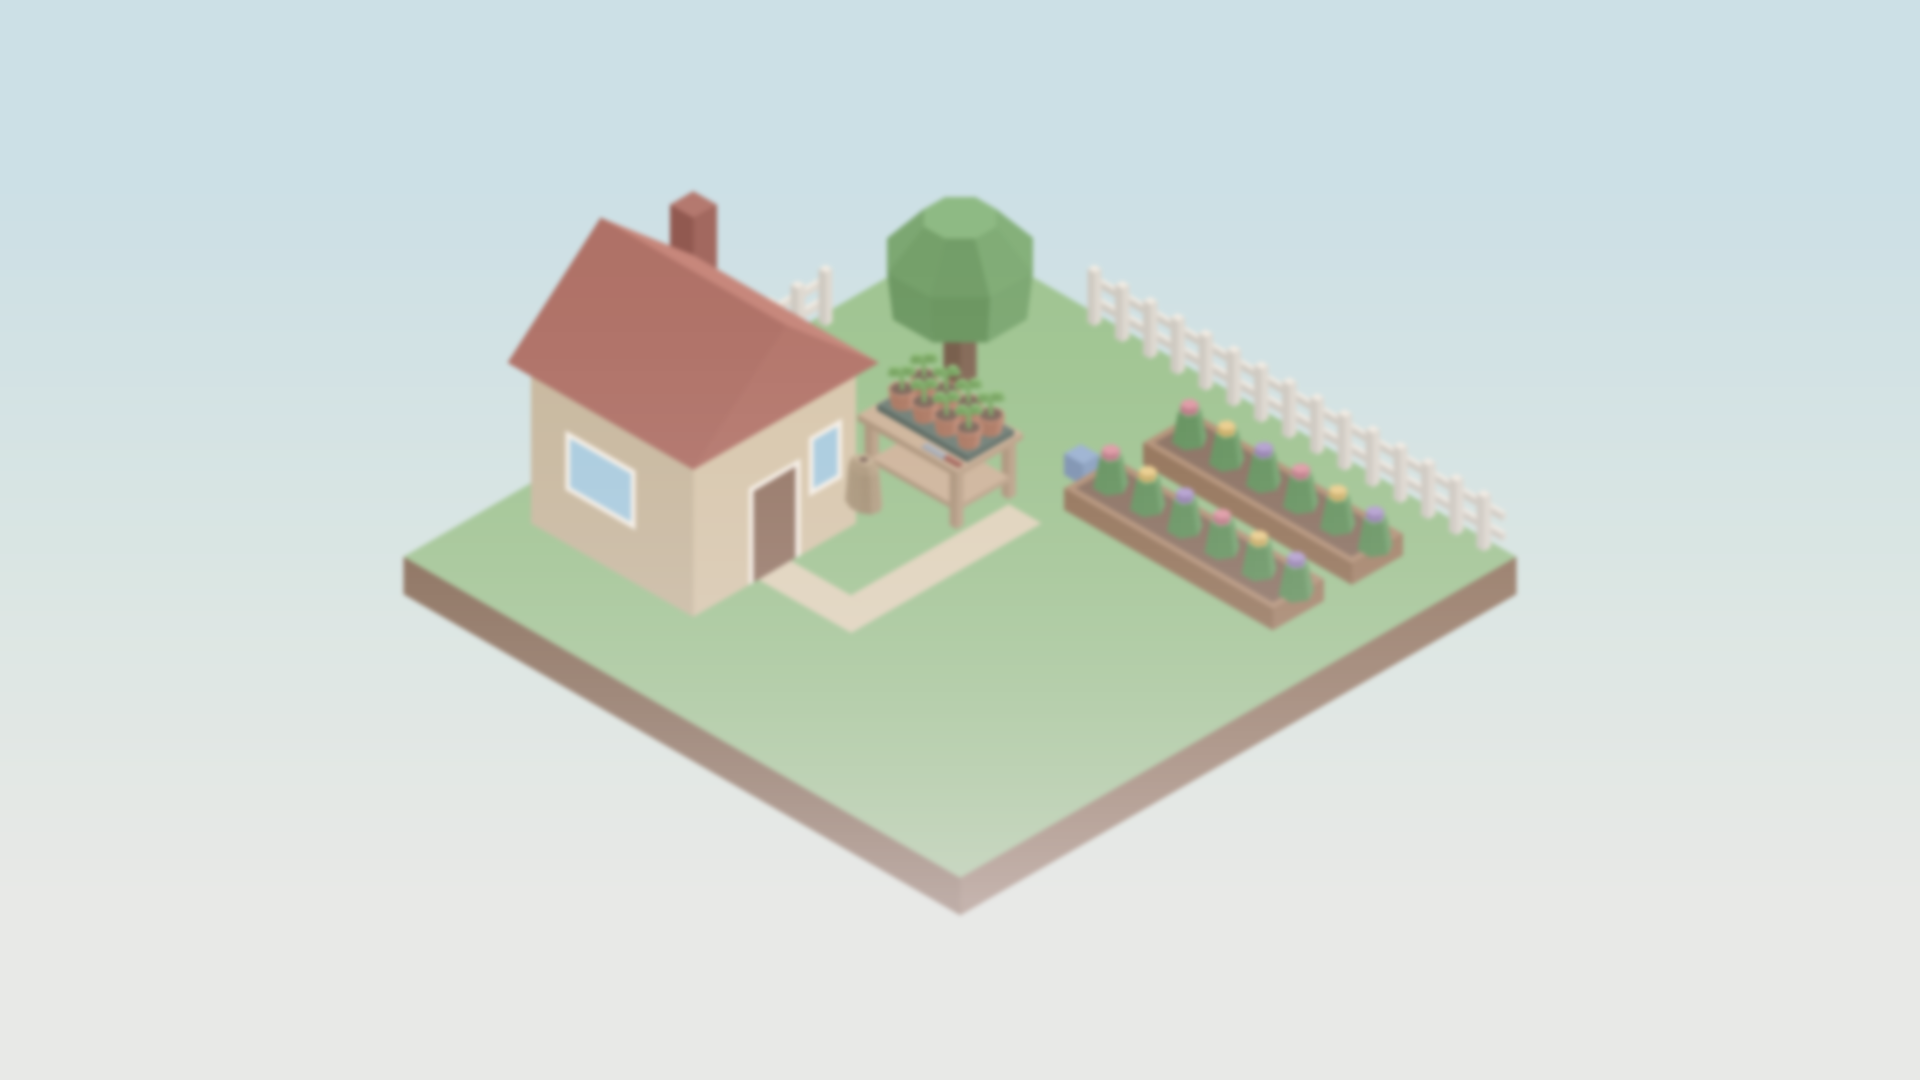
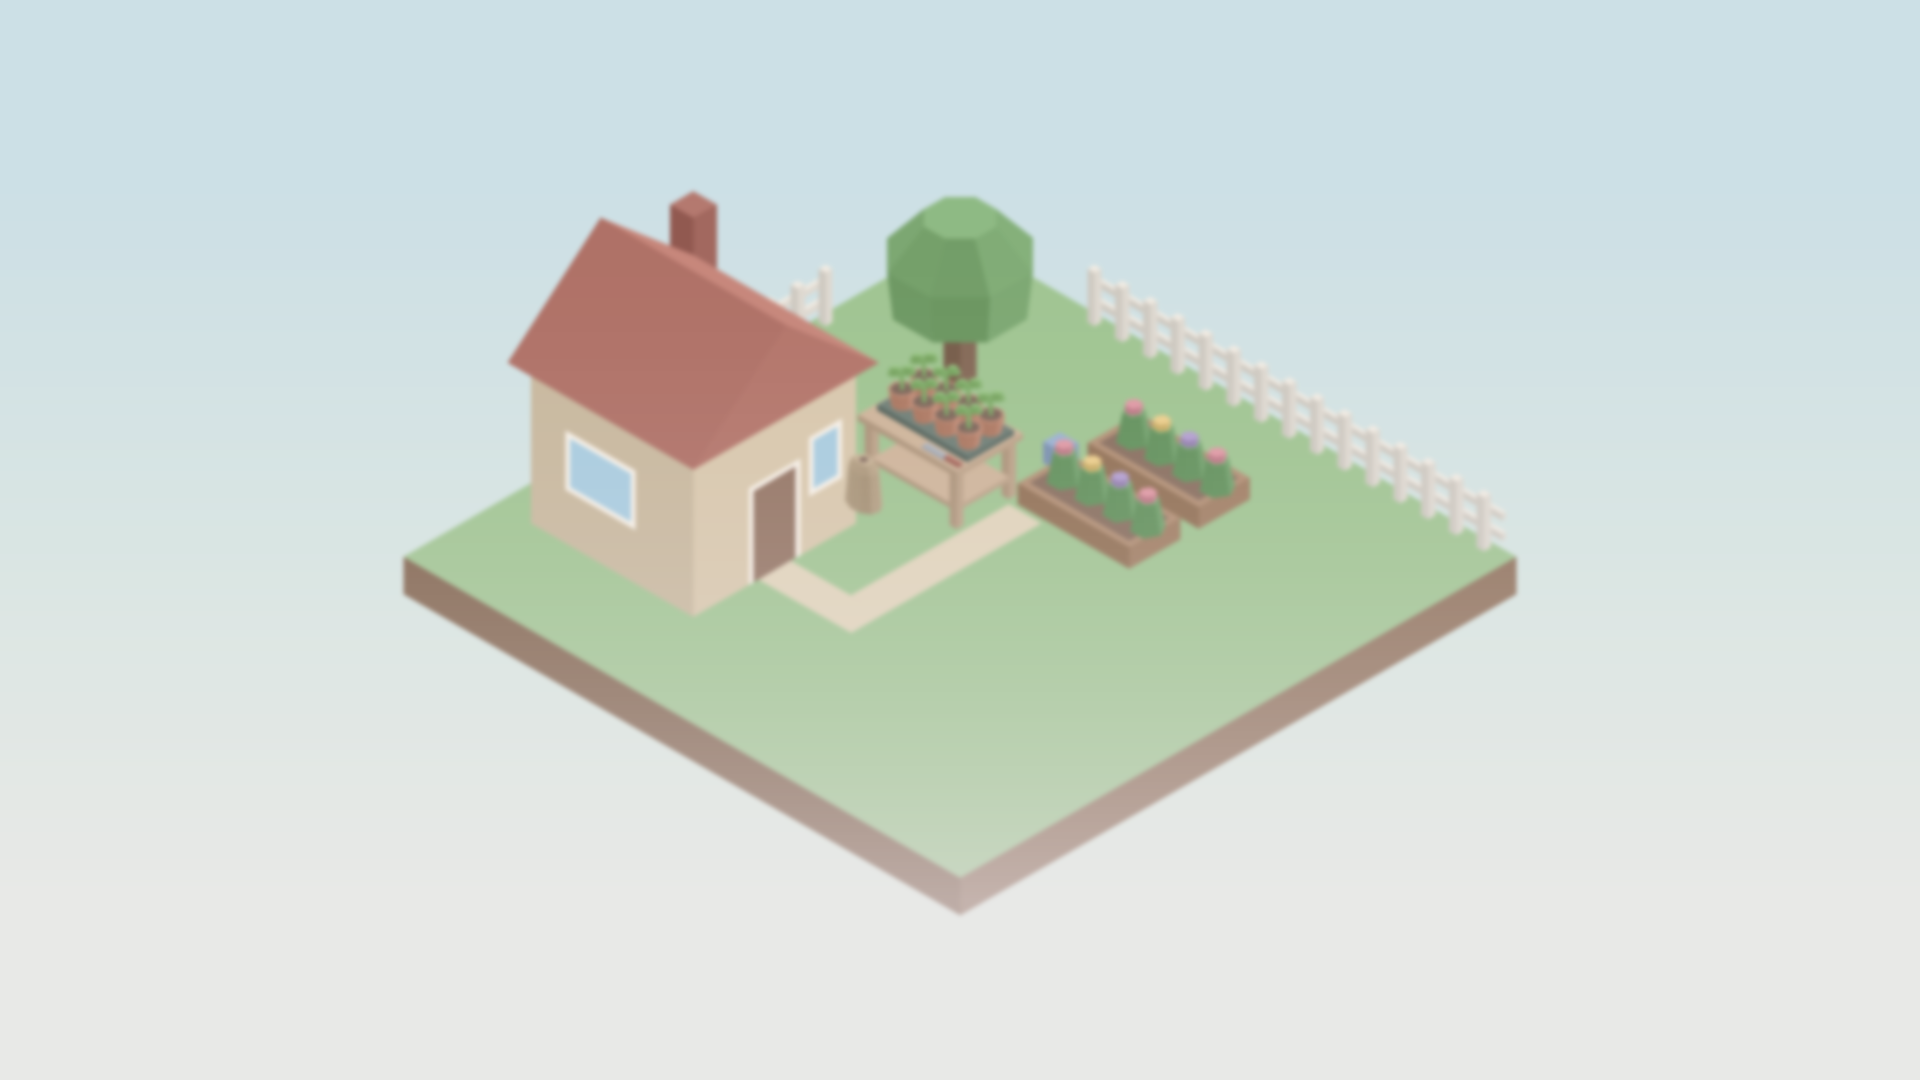
Shrink the cockpit ship and recompose four story scenes into the strip
The cockpit close-up draws the ship at 0.85 about the canopy focus, so the dome
spans rows 175 to 298. Grandma's beds sit beside the house, the play structure
beside the school's door, a shorter notice board lower by the near door, and
shorter coats and the lead nearer the corner by the front door, each subject
within 110 rows ending by row 290. The subject bands follow.

Changed region(s): [[0.5312, 0.3667, 0.75, 0.5806]]

diff --git a/art/tools/storybook.ts b/art/tools/storybook.ts
@@ -251,8 +251,8 @@ function pottingTable(s: Scene, P: Palette, state: TrayState) {
   }
 }
 
-// The house sits at the left corner and the beds at the right, along one screen-horizontal
-// band, so both stay above the story panel.
+// The house sits at the left corner and the beds beside it toward the right, so the beds' rows
+// (the scene's subject) fit the strip above the story panel.
 function garden(P: Palette, tray?: TrayState): Scene {
   const n = 24;
   const s = island();
@@ -283,12 +283,12 @@ function garden(P: Palette, tray?: TrayState): Scene {
   }
   s.solid(box(0.25, 0.42, 6, 12.6, 0.7, 0.95), P.fence!, 2, 6.2);
   s.solid(box(0.25, 0.42, 6, 12.6, 1.45, 1.7), P.fence!, 2, 6.3);
-  for (const y0 of [2.4, 5.8]) {
-    s.solid(box(12.5, 21.5, y0, y0 + 2.2, 0, 0.8), P.bed!, 2, 12.5 + y0, [
-      [onZ(0.801, 12.75, 21.25, y0 + 0.25, y0 + 1.95), P.soil!],
+  for (const y0 of [3.6, 6.6]) {
+    s.solid(box(11.3, 16.1, y0, y0 + 2.2, 0, 0.8), P.bed!, 2, 11.3 + y0, [
+      [onZ(0.801, 11.55, 15.85, y0 + 0.25, y0 + 1.95), P.soil!],
     ]);
-    for (let i = 0; i < 6; i++) {
-      const x = 13.4 + i * 1.6;
+    for (let i = 0; i < 4; i++) {
+      const x = 12.2 + i * 1.2;
       const key = x + y0 + 1.5;
       s.solid(frustum(x, y0 + 1.1, 0.55, 0.35, 6, 0.8, 1.9), P.plant!, 2, key);
       s.solid(prism(x, y0 + 1.1, 0.28, 6, 1.9, 2.15), P[`bloom${(i % 3) + 1}`]!, 2, key + 0.1);
@@ -297,7 +297,7 @@ function garden(P: Palette, tray?: TrayState): Scene {
   s.solid(box(5.0, 5.7, 5.0, 5.7, 0, 3.2), P.trunk!, 2, 8);
   s.solid(frustum(5.35, 5.35, 2.2, 2.4, 8, 2.8, 4.6, 0.39), P.crown!, 2, 8.2);
   s.solid(frustum(5.35, 5.35, 2.4, 1.2, 8, 4.6, 6.0, 0.39), P.crown!, 2, 8.3);
-  s.solid(box(11.2, 12.0, 6.0, 6.7, 0, 0.8), P.can!, 2, 18);
+  s.solid(box(10.3, 11.1, 6.0, 6.7, 0, 0.8), P.can!, 2, 17);
   if (tray) pottingTable(s, P, tray);
   return s;
 }
@@ -920,16 +920,17 @@ function hallway(P: Palette): Scene {
   ]);
   const left: Decal[] = [
     [onX(0.001, 0, ny, 0, 1.6), P.wains!],
-    [onX(0.002, 1.2, 6.6, 2.4, 5.8), P.board!],
-    [onX(0.003, 1.4, 6.4, 2.6, 5.6), P.cork!],
+    // The notice board beside the near door, its rows 184..290 above the story panel.
+    [onX(0.002, 4.4, 8.0, 3.2, 5.8), P.board!],
+    [onX(0.003, 4.6, 7.8, 3.4, 5.6), P.cork!],
   ];
   for (const [y0, z0, c] of [
-    [1.8, 4.0, "paper1"],
-    [2.9, 3.0, "paper3"],
-    [4.0, 4.2, "paper2"],
-    [5.1, 3.2, "paper4"],
+    [4.8, 4.4, "paper1"],
+    [5.55, 3.7, "paper3"],
+    [6.3, 4.5, "paper2"],
+    [7.05, 3.8, "paper4"],
   ] as const) {
-    left.push([onX(0.004, y0, y0 + 0.9, z0, z0 + 1.2), P[c]!]);
+    left.push([onX(0.004, y0, y0 + 0.6, z0, z0 + 1.0), P[c]!]);
   }
   left.push(
     [onX(0.002, 8.4, 11.6, 0, 5.4), P.frame!],
@@ -998,27 +999,32 @@ function schoolyard(P: Palette): Scene {
   for (let z = 1; z < 5; z++) deco.push([onY(23.001, 0.5, 6.5, z - 0.04, z), P.mortar!]);
   s.solid(box(0.5, 6.5, 6.0, 23.0, 0, 4.8), P.brick!, 2, 12, deco);
   s.solid(box(0.3, 6.7, 5.8, 23.2, 4.8, 5.2), P.roof!, 2, 12.1);
-  // Play structure: posts, deck, roof, slide and climbing bars.
+  // Play structure beside the school's door: posts, deck, roof, climbing bars, and the slide
+  // toward the back of the lot, so the whole structure fits rows 170..276.
+  const [px0, py0] = [8.5, 9.0];
   for (const [cx, cy] of [
-    [13, 5],
-    [15.8, 5],
-    [13, 7.8],
-    [15.8, 7.8],
+    [px0, py0],
+    [px0 + 2.8, py0],
+    [px0, py0 + 2.8],
+    [px0 + 2.8, py0 + 2.8],
   ] as const) {
-    s.solid(box(cx, cx + 0.25, cy, cy + 0.25, 0, 4.8), P.post!, 2, cx + cy);
+    s.solid(box(cx, cx + 0.25, cy, cy + 0.25, 0, 4.4), P.post!, 2, cx + cy);
   }
-  s.solid(box(12.9, 16.2, 4.9, 8.2, 2.6, 2.95), P.deck!, 2, 21.0);
-  s.solid(gable(12.7, 16.4, 4.7, 8.4, 4.8, 6.0), P.bars!, 2, 21.5);
+  s.solid(box(px0 - 0.1, px0 + 3.2, py0 - 0.1, py0 + 3.2, 2.6, 2.95), P.deck!, 2, px0 + py0 + 3);
+  s.solid(gable(px0 - 0.3, px0 + 3.4, py0 - 0.3, py0 + 3.4, 4.4, 5.6), P.bars!, 2, px0 + py0 + 3.5);
   const ramp: Face = [
-    [16.2, 5.8, 2.95],
-    [20.2, 5.8, 0.2],
-    [20.2, 7.2, 0.2],
-    [16.2, 7.2, 2.95],
+    [px0 + 0.8, py0 - 0.1, 2.95],
+    [px0 + 0.8, py0 - 4.1, 0.2],
+    [px0 + 2.2, py0 - 4.1, 0.2],
+    [px0 + 2.2, py0 - 0.1, 2.95],
   ];
-  s.solid(slab(ramp, 0.25), P.slide!, 2, 24);
-  for (const z of [0.8, 1.6, 2.4])
-    s.solid(box(13.0, 16.0, 8.2, 8.35, z, z + 0.14), P.bars!, 2, 21.2);
-  for (const cx of [13.0, 16.0]) s.solid(box(cx, cx + 0.14, 8.2, 8.35, 0, 2.6), P.bars!, 2, 21.3);
+  s.solid(slab(ramp, 0.25), P.slide!, 2, px0 + py0 - 3);
+  for (const z of [0.8, 1.6, 2.4]) {
+    s.solid(box(px0, px0 + 3.0, py0 + 3.2, py0 + 3.35, z, z + 0.14), P.bars!, 2, px0 + py0 + 3.2);
+  }
+  for (const cx of [px0, px0 + 3.0]) {
+    s.solid(box(cx, cx + 0.14, py0 + 3.2, py0 + 3.35, 0, 2.6), P.bars!, 2, px0 + py0 + 3.3);
+  }
   for (let x = 8; x < n; x += 2) s.solid(box(x, x + 0.22, 0.2, 0.42, 0, 2.2), P.fence!, 2, x + 0.5);
   s.solid(box(8, n, 0.27, 0.35, 2.05, 2.2), P.fence!, 2, 8.6);
   tree(s, P, 21.0, 2.6);
@@ -1066,7 +1072,7 @@ function frontDoor(P: Palette): Scene {
   s.solid([onZ(0, 0, nx, 0, ny)], P.floor!, 0, 1, deco);
   s.solid(box(-0.6, nx, -0.6, 0, 0, wall), P.wall!, 1, 0, [
     [onY(0.001, 0, nx, 0, 2.0), P.wains!],
-    [onY(0.002, 0.8, 6.4, 4.7, 4.95), P.rail!],
+    [onY(0.002, 0.6, 5.2, 4.7, 4.95), P.rail!],
     [onY(0.002, 8.0, 11.4, 3.6, 5.8), P.trim!],
     [onY(0.003, 8.2, 11.2, 3.8, 5.6), P.pic!],
     [onY(0.004, 8.2, 11.2, 3.8, 4.6), P.hill!],
@@ -1080,11 +1086,11 @@ function frontDoor(P: Palette): Scene {
     [onX(0.004, 5.4, 8.0, 2.2, 3.6), P.panel!],
     [onX(0.005, 8.0, 8.25, 2.6, 2.85), P.knob!],
   ]);
-  // Coats and the lead on the hooks.
-  s.solid(box(1.2, 2.6, 0, 0.5, 2.2, 4.8), P.coat1!, 2, 1.5);
-  s.solid(box(3.0, 4.3, 0, 0.5, 2.6, 4.8), P.coat2!, 2, 3.0);
-  s.solid(box(5.2, 5.35, 0, 0.15, 3.1, 4.8), P.leash!, 2, 5.0);
-  s.solid(box(4.95, 5.6, 0, 0.15, 2.6, 3.1), P.leash!, 2, 5.1);
+  // Coats and the lead on the hooks, near the corner by the door, inside rows 175..280.
+  s.solid(box(1.0, 2.2, 0, 0.5, 2.8, 4.8), P.coat1!, 2, 1.5);
+  s.solid(box(2.6, 3.8, 0, 0.5, 3.0, 4.8), P.coat2!, 2, 3.0);
+  s.solid(box(4.4, 4.55, 0, 0.15, 3.4, 4.8), P.leash!, 2, 5.0);
+  s.solid(box(4.15, 4.8, 0, 0.15, 3.0, 3.4), P.leash!, 2, 5.1);
   // Shoe rack, plant and the dog's bowl.
   s.solid(box(1.0, 5.0, 0, 1.4, 0, 1.0), P.rack!, 2, 1.0);
   ["shoe1", "shoe2", "shoe1"].forEach((c, i) => {
@@ -1455,16 +1461,16 @@ export const BACKGROUNDS: readonly Background[] = [
     build: (P: Palette) => room(P, { glow: glowAmount(glow) }),
     subject: DESK_ROCK,
   })),
-  // The raised beds in bloom beside the house's door.
-  { id: "story-grandma-garden", palette: GARDEN, build: garden, subject: band(195, 315) },
+  // The raised beds in bloom beside the house.
+  { id: "story-grandma-garden", palette: GARDEN, build: garden, subject: band(199, 285) },
   // The sprouting bed, the two empty beds and the shed.
   { id: "story-community-garden", palette: LOT, build: lot, subject: band(180, 290) },
-  // The school's door and the play structure.
-  { id: "story-schoolyard", palette: YARD, build: schoolyard, subject: band(160, 300) },
-  // The notice board and the two doors.
-  { id: "story-school-hallway", palette: HALL, build: hallway, subject: band(145, 290) },
-  // The coats and Penny's lead on their hooks, over the shoe rack.
-  { id: "story-front-door", palette: DOOR, build: frontDoor, subject: band(160, 295) },
+  // The play structure beside the school's door.
+  { id: "story-schoolyard", palette: YARD, build: schoolyard, subject: band(168, 278) },
+  // The notice board beside the near door.
+  { id: "story-school-hallway", palette: HALL, build: hallway, subject: band(184, 290) },
+  // The coats and Penny's lead on their hooks by the door.
+  { id: "story-front-door", palette: DOOR, build: frontDoor, subject: band(175, 280) },
   // Needle: the recorder and the rock on Ada's desk.
   {
     id: "story-ada-room-recorder",
@@ -1491,13 +1497,13 @@ export const BACKGROUNDS: readonly Background[] = [
     id: "story-grandma-garden-spilled",
     palette: GARDEN,
     build: (P) => garden(P, "spilled"),
-    subject: band(195, 315),
+    subject: band(176, 285),
   },
   {
     id: "story-grandma-garden-replanted",
     palette: GARDEN,
     build: (P) => garden(P, "replanted"),
-    subject: band(195, 315),
+    subject: band(176, 285),
   },
   // The rock's glow on the desk.
   {

diff --git a/art/tools/cockpit.ts b/art/tools/cockpit.ts
@@ -33,8 +33,11 @@ export const CANVAS = { width: 960, height: 540, density: 2 } as const;
 const SS = 3;
 // Ship heading 24 of 32 (up-right).
 const YAW = 24;
+// The ship's size in the close-up, about the canopy's focus point: the dome spans canvas rows 175
+// to 298, so it fits the strip above the story panel (art/layout.md "Storybook page").
+const SHIP_SCALE = 0.85;
 // Design px per model unit, and the design px where the canopy's focus point (0, -3, 5.5) lands.
-const K = 11;
+const K = 11 * SHIP_SCALE;
 const FOCUS: Xy = [422, 150];
 
 // The Classic paint of the in-game ship (art/tools/ship.ts).
@@ -355,6 +358,8 @@ const mix = (a: string, b: string, t: number): [number, number, number] => {
 // The untreated model over the in-between field, at the view's resolution.
 export function renderModel(view: View): RgbaImage {
   const S = SS * view.scale;
+  // Image px per design px of the ship's lights, glows, lines and blurs, scaled with the ship.
+  const M = S * SHIP_SCALE;
   const width = view.width * SS;
   const height = view.height * SS;
   const lay = blankImage(width, height);
@@ -370,7 +375,7 @@ export function renderModel(view: View): RgbaImage {
       S * (pivot[1] + K * ((x + y) / 2 - z) - view.y0),
     ];
   };
-  const px = (design: number) => Math.max(1, roundHalfEven(S * design));
+  const px = (design: number) => Math.max(1, roundHalfEven(M * design));
   // Visible faces, far to near.
   const visible = <T extends { points: Face }>(faces: readonly T[]) =>
     faces
@@ -463,8 +468,8 @@ export function renderModel(view: View): RgbaImage {
   ];
   for (const [p, c, size] of lights) {
     const [x, y] = proj(p);
-    const r = S * size;
-    glow([x, y], r * 2.4, rgba(c, 70), Math.max(0.5, S * 2));
+    const r = M * size;
+    glow([x, y], r * 2.4, rgba(c, 70), Math.max(0.5, M * 2));
     disc(lay, [x, y], r, rgba(c));
     fillEllipse(lay, [x - r * 0.4, y - r * 0.6, x + r * 0.2, y], rgba("ffffff"));
   }
@@ -494,17 +499,17 @@ export function renderModel(view: View): RgbaImage {
     for (const face of facets) {
       fillPolygon(spot, face.map(proj), rgba(PAINT.canopyHighlight));
     }
-    blur(spot, S * 5, bounds(facets.flat().map(proj), px(16)));
+    blur(spot, M * 5, bounds(facets.flat().map(proj), px(16)));
     clip(spot, mask);
     over(lay, spot);
-    glow(proj(centroid(facets[0]!)), S * 4, rgba("ffffff", 150), S * 2, mask);
+    glow(proj(centroid(facets[0]!)), M * 4, rgba("ffffff", 150), M * 2, mask);
     // A thin rim of light along the upper left edge.
     const arc = Array.from({ length: 21 }, (_, t) =>
       proj(canopyPoint(((140 + t * 5) * Math.PI) / 180, (35 * Math.PI) / 180)),
     );
     const rim = clear(rgba("ffffff"));
     polyline(rim, arc, [255, 255, 255, 90], px(1.6), true);
-    blur(rim, S * 0.8, bounds(arc, px(2)));
+    blur(rim, M * 0.8, bounds(arc, px(2)));
     clip(rim, mask);
     over(lay, rim);
     // The dark blue seam where the canopy meets the hull, on the near arc; the dome hides the
@@ -564,7 +569,7 @@ if (import.meta.url === `file://${process.argv[1]}`) {
     facing: "front",
     pivot: { x: 0.5, y: 0.5 },
     // The canopy dome: the story page's subject band in canvas logical px (art/layout.md).
-    subject: { top: 165, bottom: 310 },
+    subject: { top: 175, bottom: 298 },
   });
   placeEntries("core", "cockpit", [background("cockpit"), background("cockpit-seated")]);
 }

diff --git a/art/storybook.md b/art/storybook.md
@@ -87,8 +87,9 @@ Full palettes are in the generator. Colours are before treatment d.
   grass; `story-grandma-garden-replanted` (the closing) has every pot upright
   with its seedling, the soil swept up, a trowel on the table and a potting-soil
   sack beside it.
-- `story-ada-room` and `story-grandma-garden` are unchanged; the new
-  backgrounds add their props to the same scenes.
+- The new backgrounds add their props to the scenes of `story-ada-room` and
+  `story-grandma-garden`, which draw without them; the garden's table stands
+  clear of its beds.
 
 The game names each page's location by a background key
 (`Background` in `src/data/storybook.ts`):
@@ -147,19 +148,19 @@ at most the panel top + 180; at 720x405 the limit is the panel top + 135.
 | `story-park`                     | 220..285 | The dig spot and rock, the bench and the pond          |
 | `story-ada-room-unpolished`      | 255..300 | The rock on the desk                                   |
 | `story-ada-room`                 | 255..300 | The rock on the desk; the glow frames share it         |
-| `story-grandma-garden`           | 195..315 | The raised beds in bloom beside the door               |
+| `story-grandma-garden`           | 199..285 | The raised beds in bloom beside the house              |
 | `story-community-garden`         | 180..290 | The sprouting bed, the empty beds, the shed            |
-| `story-schoolyard`               | 160..300 | The school's door and the play structure               |
-| `story-school-hallway`           | 145..290 | The notice board and the two doors                     |
-| `story-front-door`               | 160..295 | The coats and Penny's lead over the shoe rack          |
+| `story-schoolyard`               | 168..278 | The play structure beside the school's door            |
+| `story-school-hallway`           | 184..290 | The notice board beside the near door                  |
+| `story-front-door`               | 175..280 | The coats and Penny's lead on their hooks by the door  |
 | `story-ada-room-night`           | 250..300 | The rock's glow on the desk; the sleep scene shares it |
 | `story-ada-room-morning`         | 245..350 | Ada stretching on the bed, the rock on the desk        |
-| `cockpit`                        | 165..310 | The canopy dome                                        |
-| `cockpit-seated`                 | 165..310 | The canopy dome                                        |
+| `cockpit`                        | 175..298 | The canopy dome                                        |
+| `cockpit-seated`                 | 175..298 | The canopy dome                                        |
 | `story-ada-room-recorder`        | 255..300 | The rock and the recorder on the desk                  |
 | `story-concert-hall`             | 195..300 | The stage, the piano and Ada in the spotlight          |
-| `story-grandma-garden-spilled`   | 195..315 | The house's door, the tray and the beds                |
-| `story-grandma-garden-replanted` | 195..315 | The house's door, the tray and the beds                |
+| `story-grandma-garden-spilled`   | 176..285 | The seedling tray on the potting table and the beds    |
+| `story-grandma-garden-replanted` | 176..285 | The seedling tray on the potting table and the beds    |
 
 Placement per scene and background: canvas top `y`, then the band's view rows
 and the tallest panel's top, at 720x360 with insets 43/43/0/19, 844x390 with

diff --git a/art/cockpit.md b/art/cockpit.md
@@ -15,8 +15,11 @@ selection card.
   ([projection.ts](tools/projection.ts)) at ship heading 24 of 32,
   flat-shaded polygons lit from the upper left. The rear
   points toward the viewer, so the tail faces draw after the canopy.
-- 11 design px per model unit. The canopy focus, model point (0, -3, 5.5),
-  lands 150 design px from the top of the design frame, centred horizontally.
+- 9.35 design px per model unit: the ship at 0.85 of the close-up's 11, about
+  the canopy focus, so the dome spans canvas rows 175 to 298 and fits the strip
+  above the story panel. The lights, lines, glows and blurs scale with it. The
+  canopy focus, model point (0, -3, 5.5), lands 150 design px from the top of
+  the design frame, centred horizontally.
 - Design px: the 844 by 390 design frame is the 779 by 360 logical view of an
   844 by 390 phone (13 design px per 12 logical px).
 
